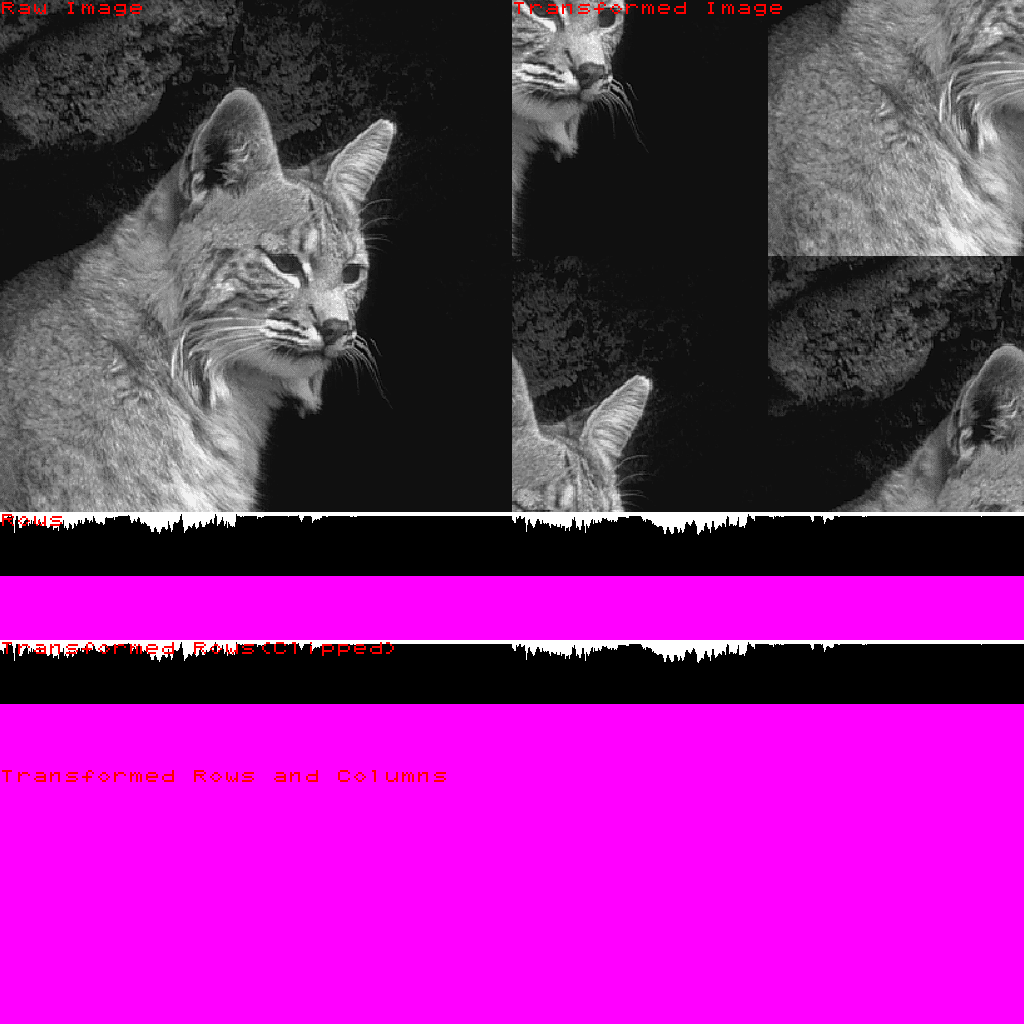
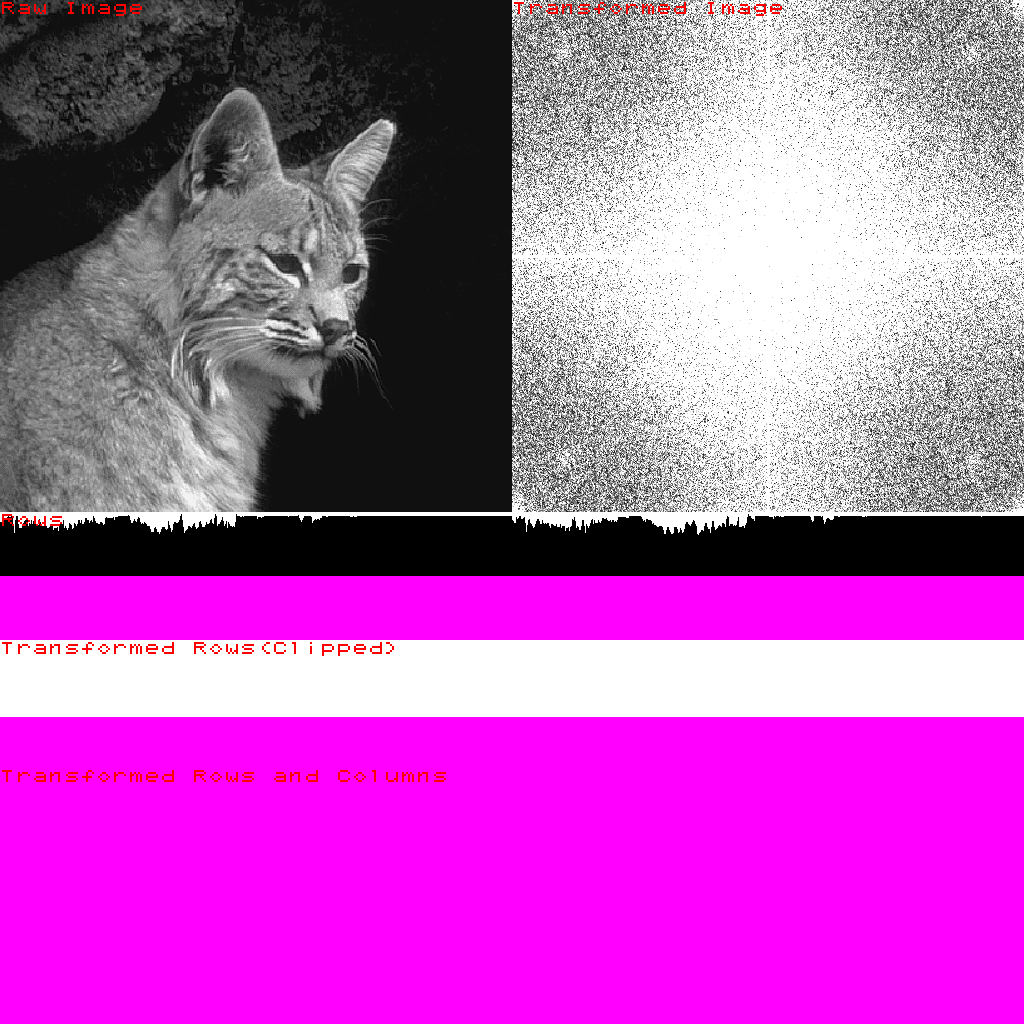
Replaced transformData with fft for more speed

Changed region(s): [[0.5, 0.0, 1.0, 0.5], [0.0, 0.625, 1.0, 0.7188]]

diff --git a/main.cpp b/main.cpp
@@ -8,8 +8,8 @@
 #include <vector>
 using namespace std;
 
-#define FILENAME "resources/cat128.png"
-#define SIZE 128
+#define FILENAME "resources/cat.png"
+#define SIZE 512
 #define WINDOW_WIDTH 1024
 #define WINDOW_HEIGHT 1024
 #define SIZE2 SIZE*SIZE
@@ -145,8 +145,8 @@ ROWVEC fftRow(ROWVEC row, const bool invert = false) {
     auto transform = ROWVEC(n);
 
     for (int i = 0; i < half; ++i) {
-        transform[i] = transform.at(i) + pow(o,i) * transform.at(i);
-        transform[i + half] = transform.at(i) - pow(o,i) * transform.at(i);
+        transform[i] = transformEven[i] + pow(o,i) * transformOdd[i];
+        transform[i + half] = transformEven[i] - pow(o,i) * transformOdd[i];
     }
 
     return transform;
@@ -173,10 +173,11 @@ void transformData(array<complex<float>,SIZE2> * data, const bool invert = false
     }
 }
 
-void rowsToColumns(const IMGARRAY * src, IMGARRAY * dst) {
+void rowsToColumns(IMGARRAY * data) {
+    const IMGARRAY temp = *data;
     for (int i = 0; i < SIZE; ++i) {
         for (int j = 0; j < SIZE; ++j) {
-            dst->at(i * SIZE + j) = src->at(j * SIZE + i);
+            data->at(i * SIZE + j) = temp[j * SIZE + i];
         }
     }
 }
@@ -302,11 +303,10 @@ int main()
     SDL_FreeSurface(converted);
     auto transformedArray = complexArray;
     fft(&transformedArray);
-    //IMGARRAY columns;
-    //rowsToColumns(&transformedArray, &columns);
-    //transformData(&columns);
+    rowsToColumns(&transformedArray);
+    fft(&transformedArray);
 
-    SDL_Surface * transformedSurface = fftShift(&transformedArray,1);
+    SDL_Surface * transformedSurface = fftShift(&transformedArray,0.01);
     SDL_Texture * transformedTexture = SDL_CreateTextureFromSurface(renderer, transformedSurface);
 
 
